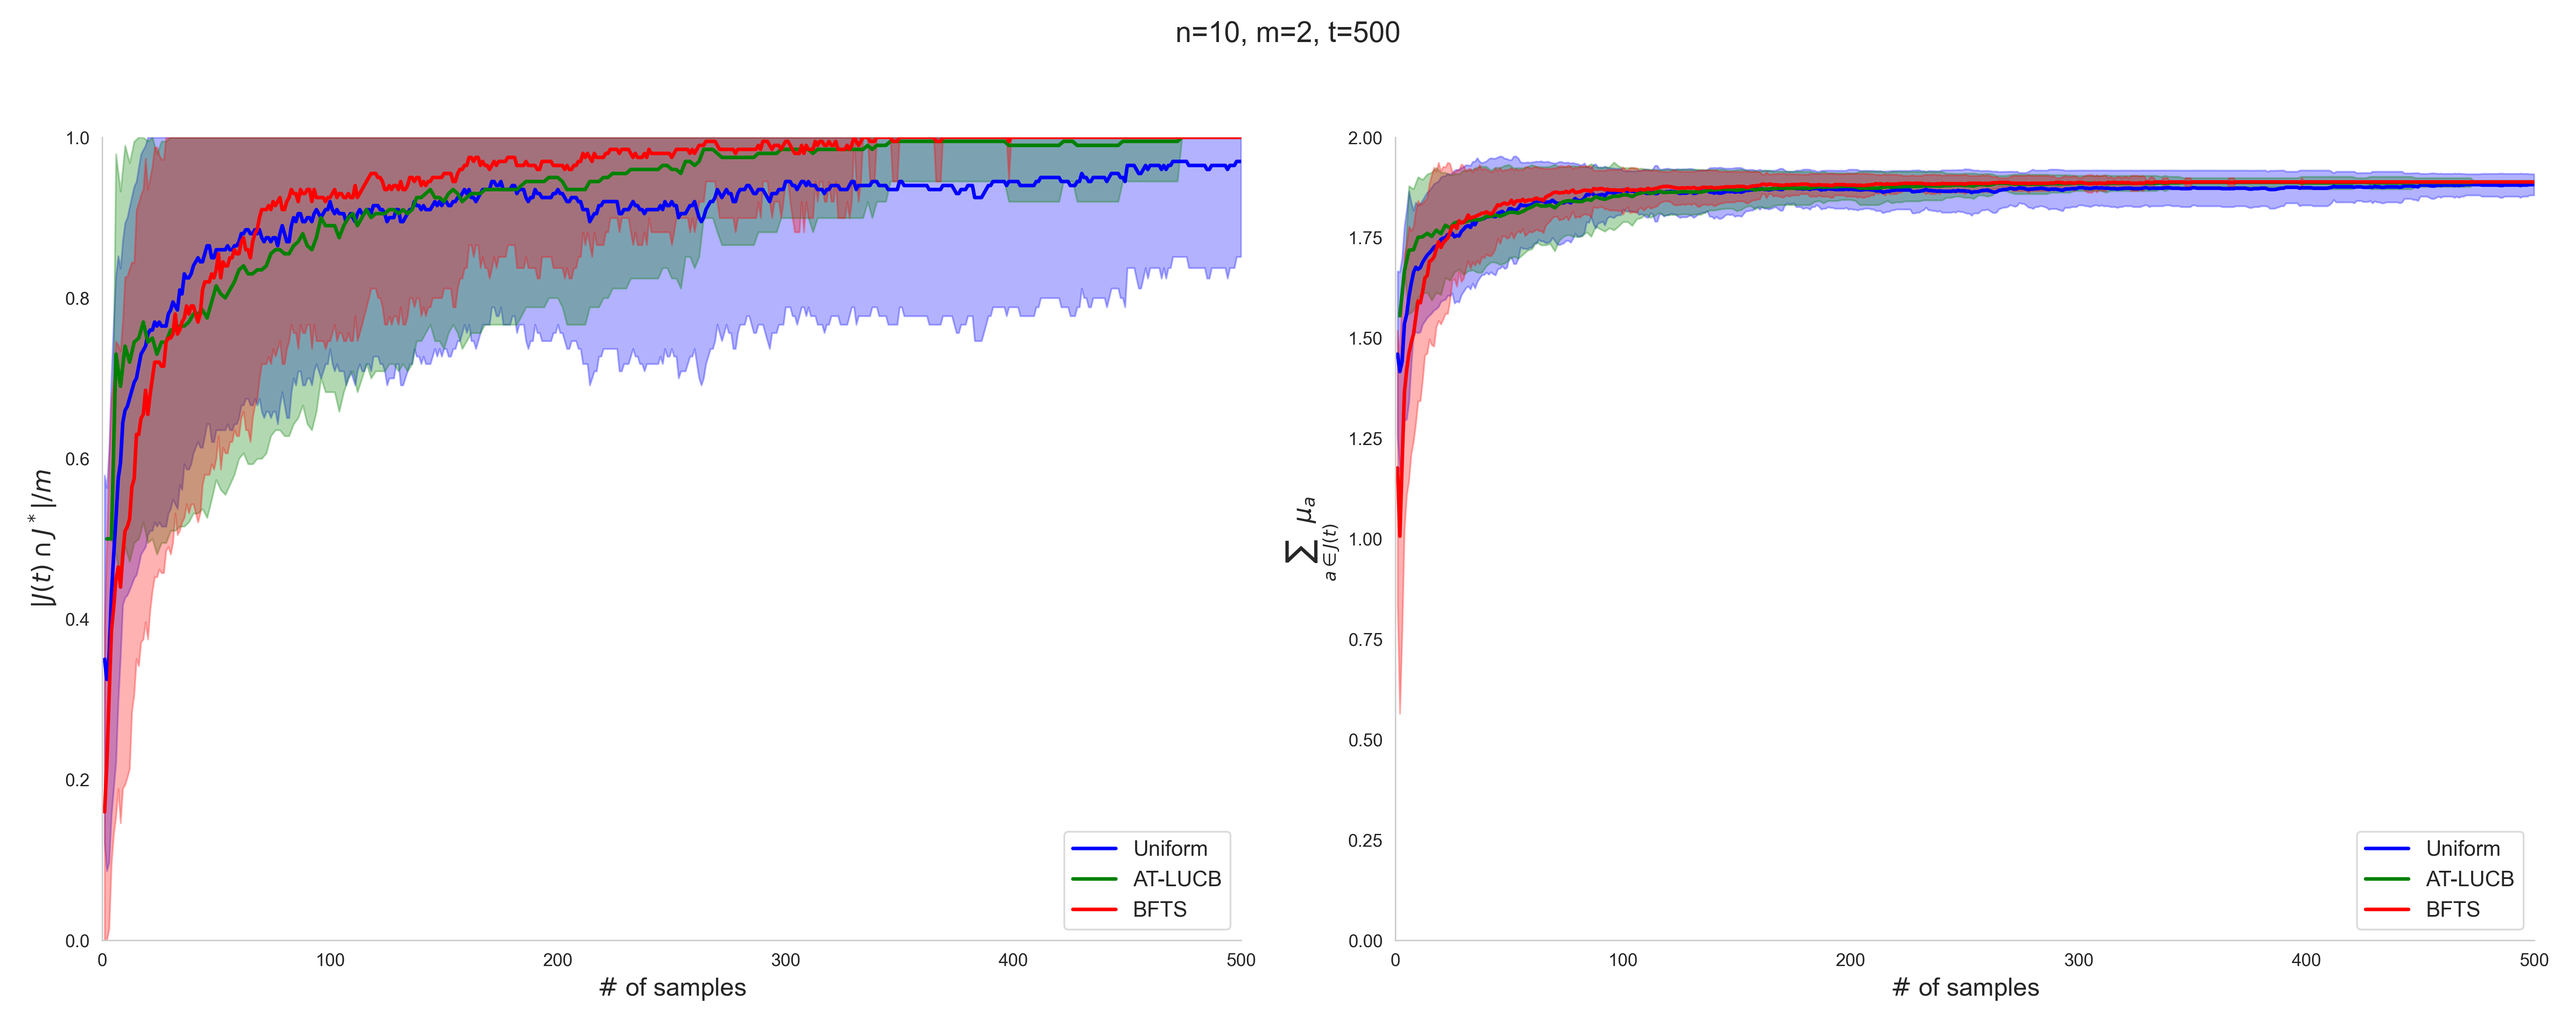
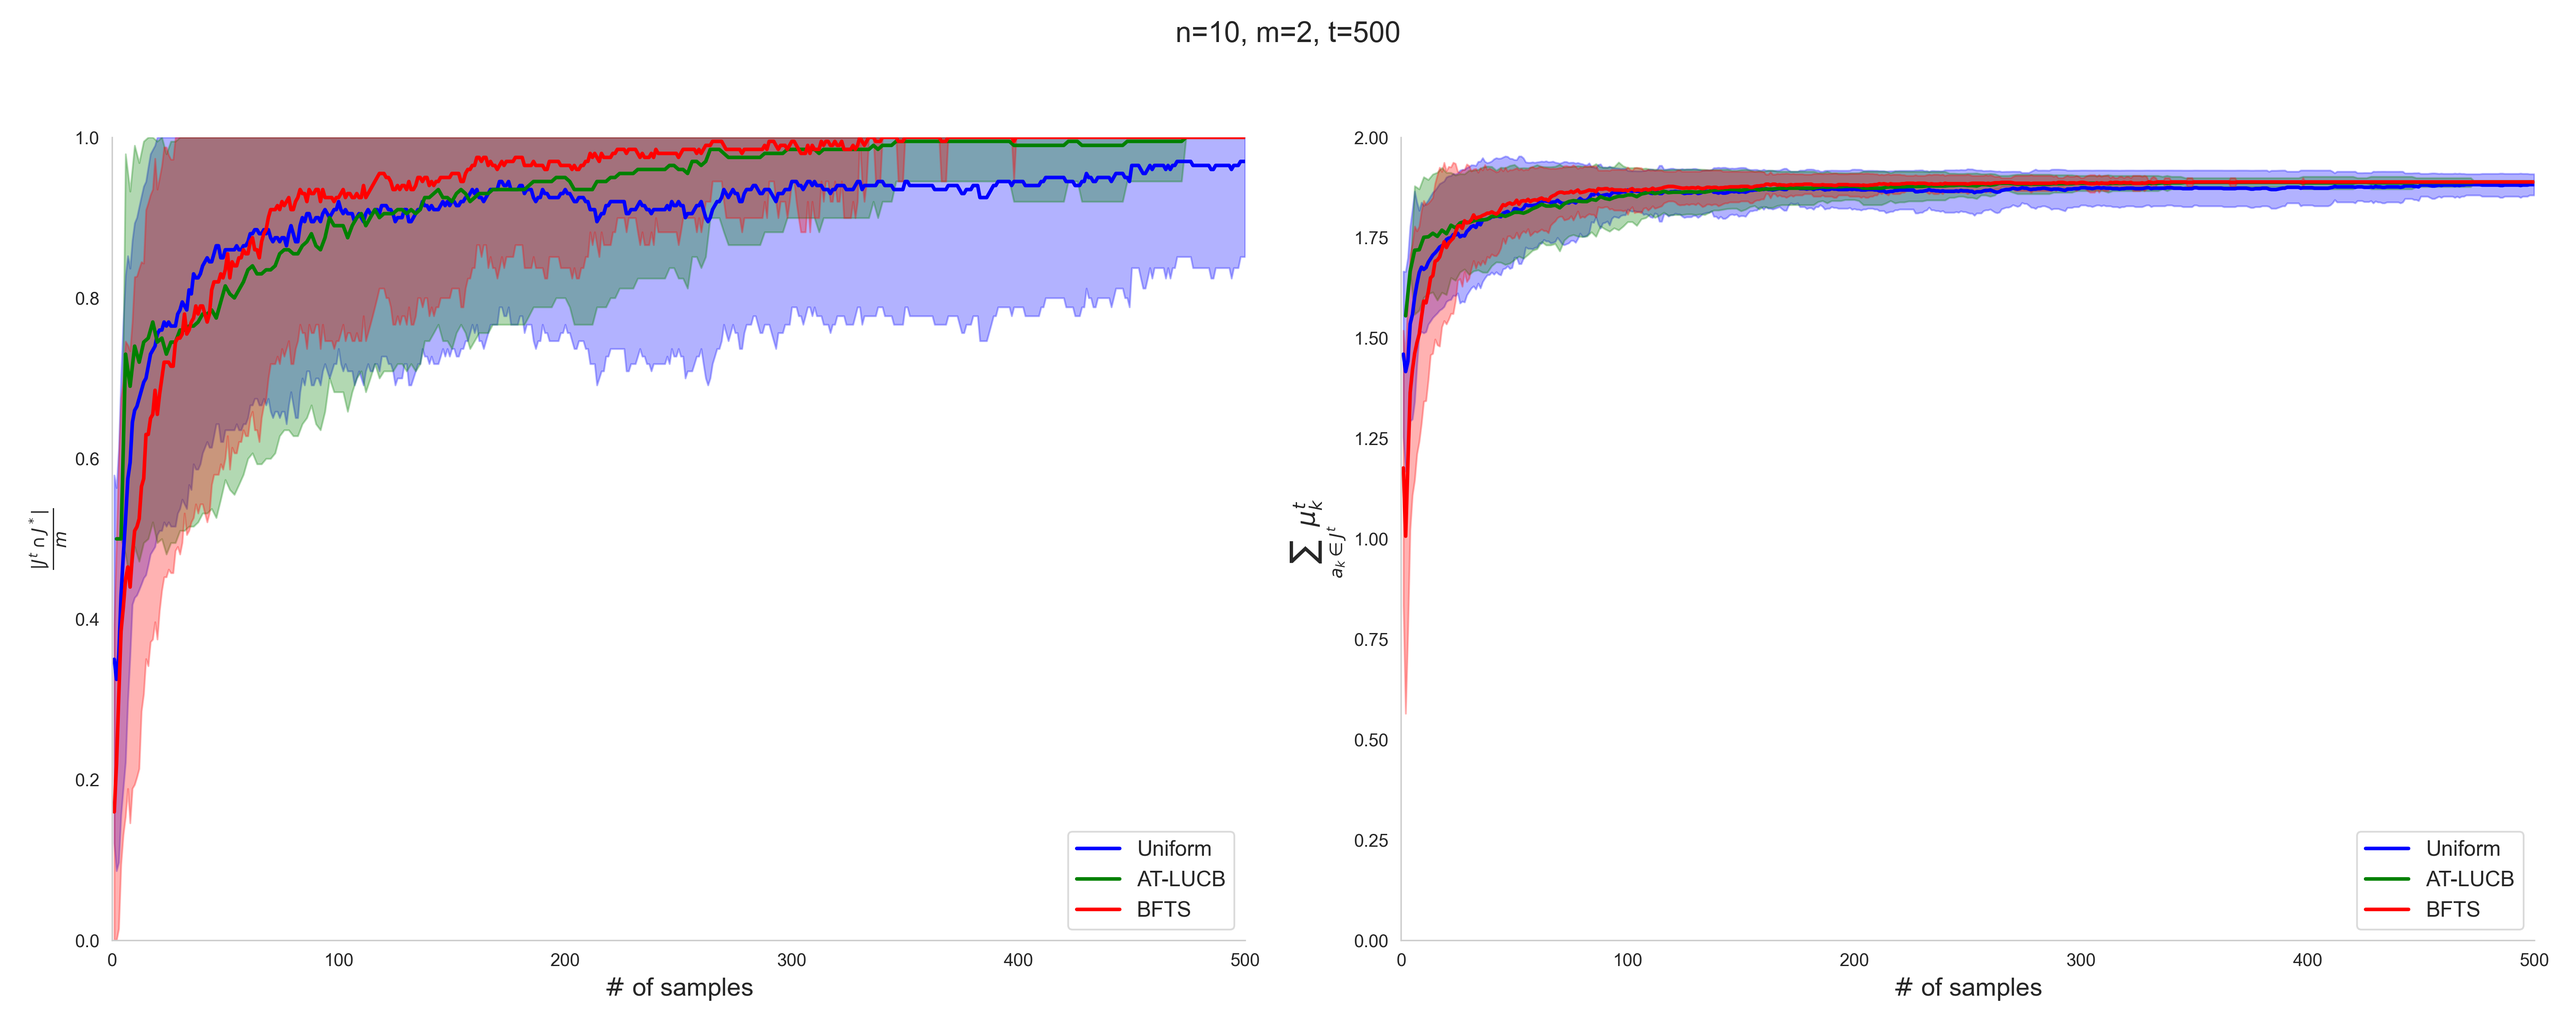
updated plotting to have prettier axis labels

diff --git a/merge_and_plot.py b/merge_and_plot.py
@@ -183,7 +183,7 @@ for method, color in zip(["Uniform", "AT-LUCB", "BFTS"], ["blue", "green", "red"
 
 # set the labels
 ax1.set_xlabel(r'$\#$ of samples', fontsize=14)
-ax1.set_ylabel(r'$|J(t) \cap J^*|/m$', fontsize=14)
+ax1.set_ylabel(r'$\frac{|J^t \cap J^*|}{m}$', fontsize=14)
 ax1.set_ylim(0, 1)
 ax1.set_xlim(0, t)
 ax1.legend(fontsize=12, frameon=True, facecolor='white', edgecolor='lightgray', loc='lower right')
@@ -220,7 +220,7 @@ if stat == "prop_and_sum":
 
     # set the labels
     ax2.set_xlabel(r'$\#$ of samples', fontsize=14)
-    ax2.set_ylabel(r'$\sum_{a\in J(t)}\mu_a$', fontsize=14)
+    ax2.set_ylabel(r'$\sum_{a_k\in J^t}\mu_k^t$', fontsize=14)
     ax2.set_ylim(0, m)
     ax2.set_xlim(0, t)
     ax2.legend(fontsize=12, frameon=True, facecolor='white', edgecolor='lightgray', loc='lower right')
